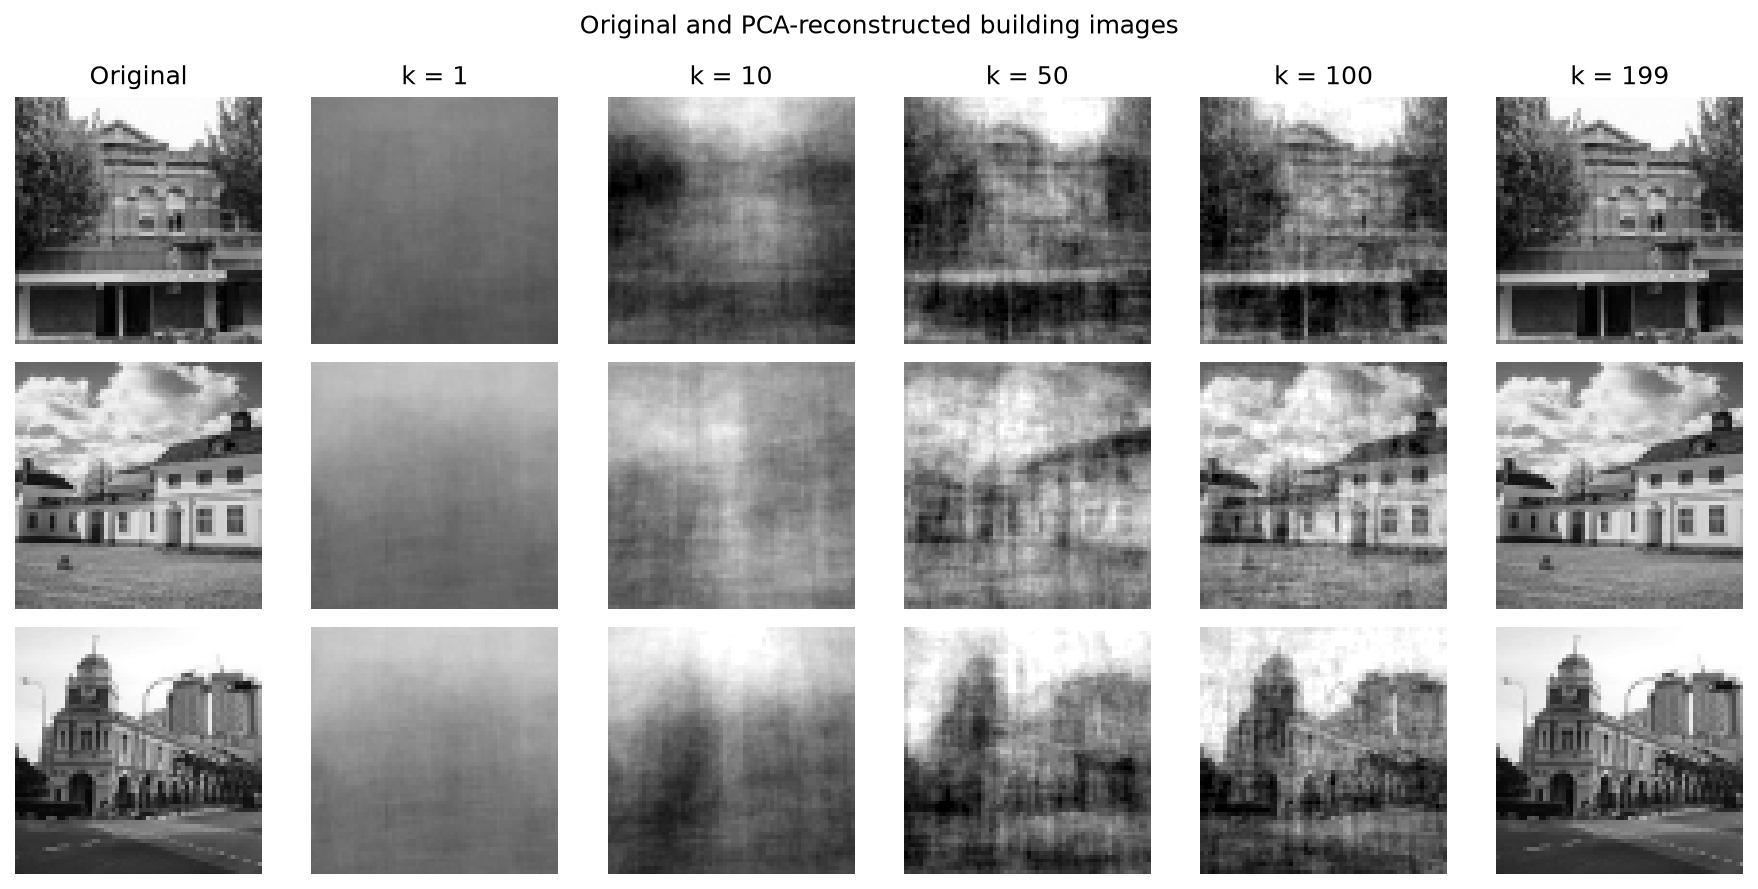
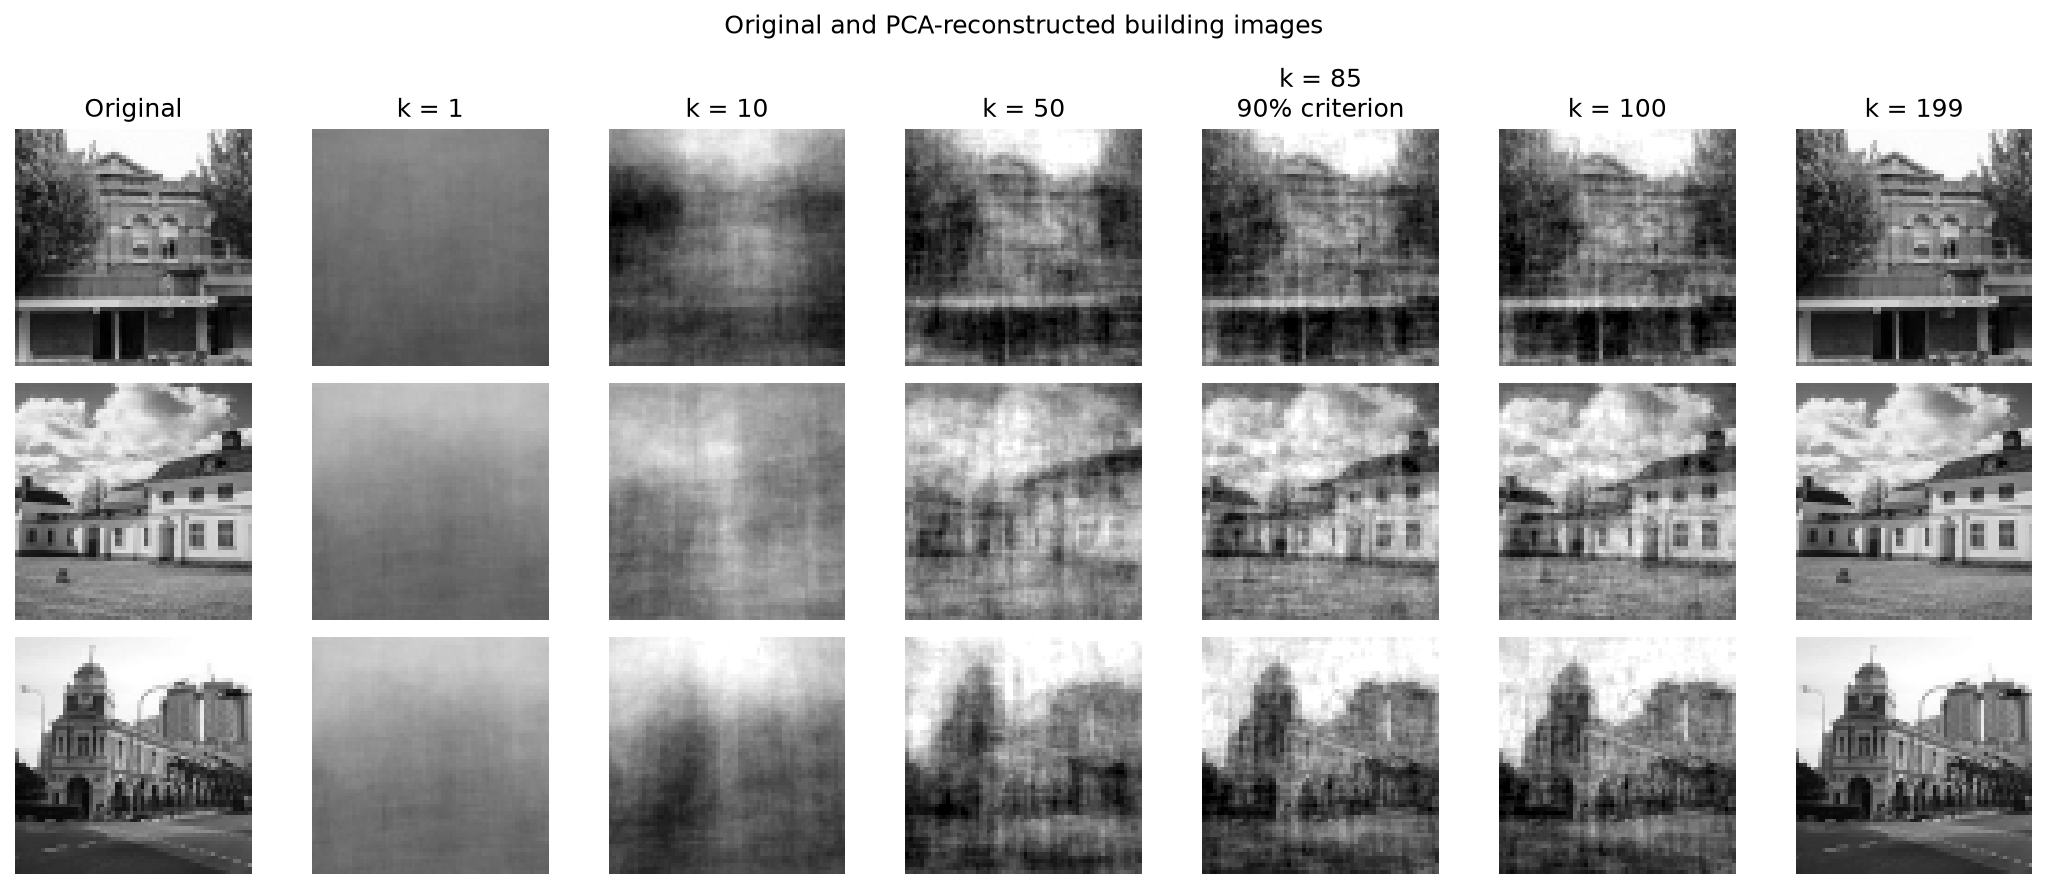
Refine PCA dimensionality selection

diff --git a/src/pca.py b/src/pca.py
@@ -9,6 +9,7 @@ import numpy as np
 IMAGE_SIZE = (64, 64)
 NUMBER_OF_IMAGES = 200
 RANDOM_SEED = 42
+EXPLAINED_VARIANCE_TARGET = 0.90
 TESTED_COMPONENT_COUNTS = [1, 5, 10, 25, 50, 100, 150]
 
 
@@ -92,7 +93,9 @@ def save_mean_image(mean_image, image_shape, output_directory):
     print(f"Mean image saved to: {output_path}")
 
 
-def save_explained_variance(explained_variance_ratio, output_directory):
+def save_explained_variance(
+    explained_variance_ratio, selected_count, output_directory
+):
     cumulative_variance = np.cumsum(explained_variance_ratio)
     component_counts = np.arange(1, len(cumulative_variance) + 1)
 
@@ -100,6 +103,14 @@ def save_explained_variance(explained_variance_ratio, output_directory):
     axis.plot(component_counts, cumulative_variance, color="tab:blue")
     for level in (0.8, 0.9, 0.95):
         axis.axhline(level, color="gray", linestyle="--", linewidth=0.8)
+    axis.plot(
+        selected_count,
+        cumulative_variance[selected_count - 1],
+        "o",
+        color="tab:orange",
+        label=f"Selected k = {selected_count} (90% criterion)",
+    )
+    axis.legend(frameon=False)
     axis.set(
         xlabel="Number of principal components (k)",
         ylabel="Cumulative explained variance",
@@ -150,14 +161,17 @@ def save_reconstruction_comparison(
     reconstructions,
     image_shape,
     component_counts,
+    selected_count,
     output_directory,
 ):
-    displayed_counts = [1, 10, 50, 100, component_counts[-1]]
+    displayed_counts = sorted(
+        set([1, 10, 50, selected_count, 100, component_counts[-1]])
+    )
     image_indices = [0, len(data_matrix) // 2, len(data_matrix) - 1]
     figure, axes = plt.subplots(
         len(image_indices),
         len(displayed_counts) + 1,
-        figsize=(12, 6),
+        figsize=(14, 6),
     )
 
     for row, image_index in enumerate(image_indices):
@@ -178,7 +192,11 @@ def save_reconstruction_comparison(
                 vmax=1,
             )
             axes[row, column].set_title(
-                f"k = {component_count}" if row == 0 else ""
+                (
+                    f"k = {component_count}\n90% criterion"
+                    if component_count == selected_count
+                    else f"k = {component_count}"
+                ) if row == 0 else ""
             )
 
     for axis in axes.ravel():
@@ -214,7 +232,7 @@ def save_reconstruction_error(metrics, output_directory):
 def save_metrics(metrics, pixel_count, output_directory):
     output_path = output_directory / "metrics.csv"
     with output_path.open("w", newline="", encoding="utf-8") as csv_file:
-        writer = csv.writer(csv_file)
+        writer = csv.writer(csv_file, lineterminator="\n")
         writer.writerow(
             ["k", "cumulative_explained_variance", "mse", "pixel_reduction"]
         )
@@ -281,10 +299,25 @@ def main():
     print(f"Projected data shape: {projected_data.shape}")
     print(f"Total explained variance: {np.sum(explained_variance_ratio):.6f}")
 
-    save_mean_image(mean_image, image_shape, output_directory)
-    save_explained_variance(explained_variance_ratio, output_directory)
+    cumulative_variance = np.cumsum(explained_variance_ratio)
+    selected_count = int(
+        np.searchsorted(cumulative_variance, EXPLAINED_VARIANCE_TARGET) + 1
+    )
+    assert cumulative_variance[selected_count - 1] >= EXPLAINED_VARIANCE_TARGET
+    assert (
+        selected_count == 1
+        or cumulative_variance[selected_count - 2] < EXPLAINED_VARIANCE_TARGET
+    )
+    print(f"Selected k = {selected_count}: minimum reaching 90% explained variance")
 
-    component_counts = TESTED_COMPONENT_COUNTS + [len(components)]
+    save_mean_image(mean_image, image_shape, output_directory)
+    save_explained_variance(
+        explained_variance_ratio, selected_count, output_directory
+    )
+
+    component_counts = sorted(
+        set(TESTED_COMPONENT_COUNTS + [selected_count, len(components)])
+    )
     reconstructions, metrics = evaluate_reconstructions(
         data_matrix,
         centered_data,
@@ -303,6 +336,7 @@ def main():
         reconstructions,
         image_shape,
         component_counts,
+        selected_count,
         output_directory,
     )
     save_reconstruction_error(metrics, output_directory)
